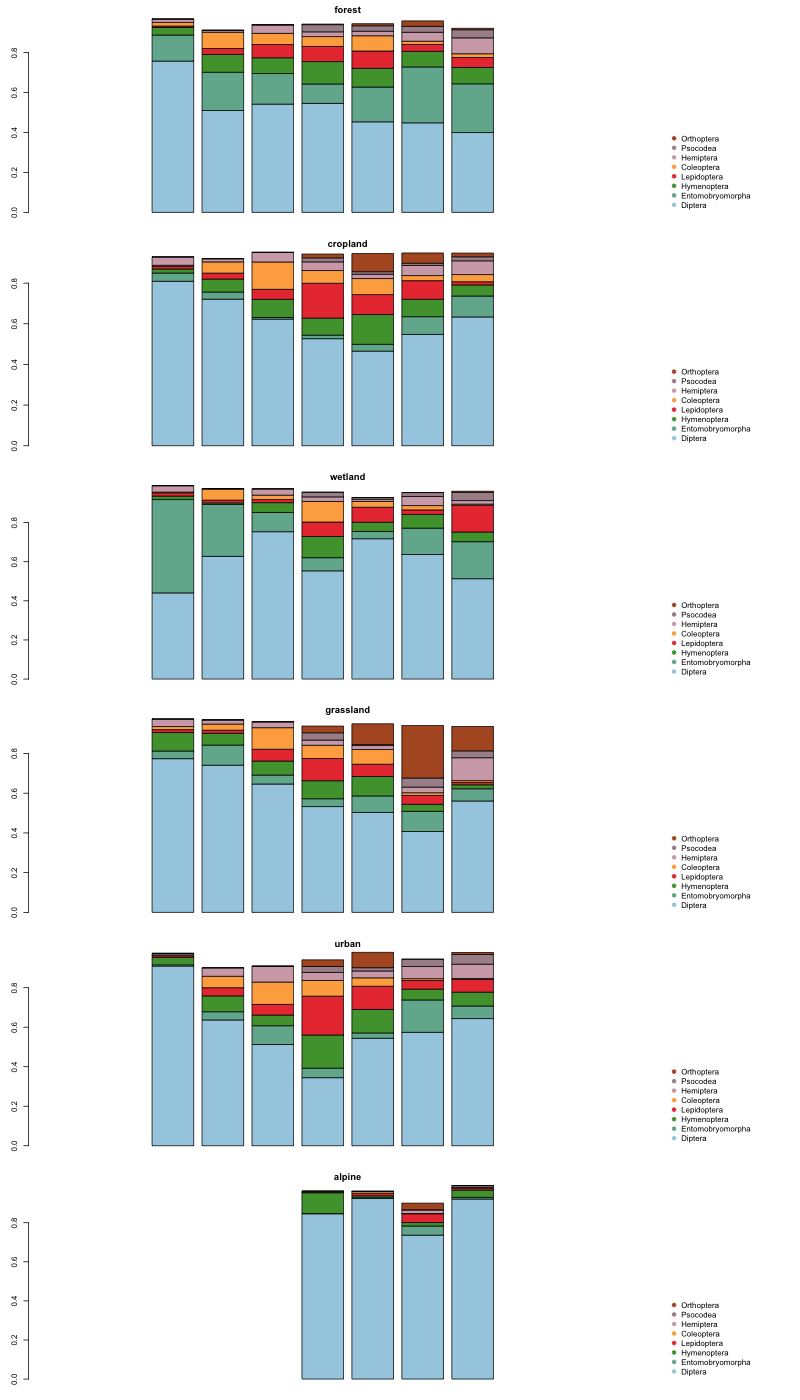
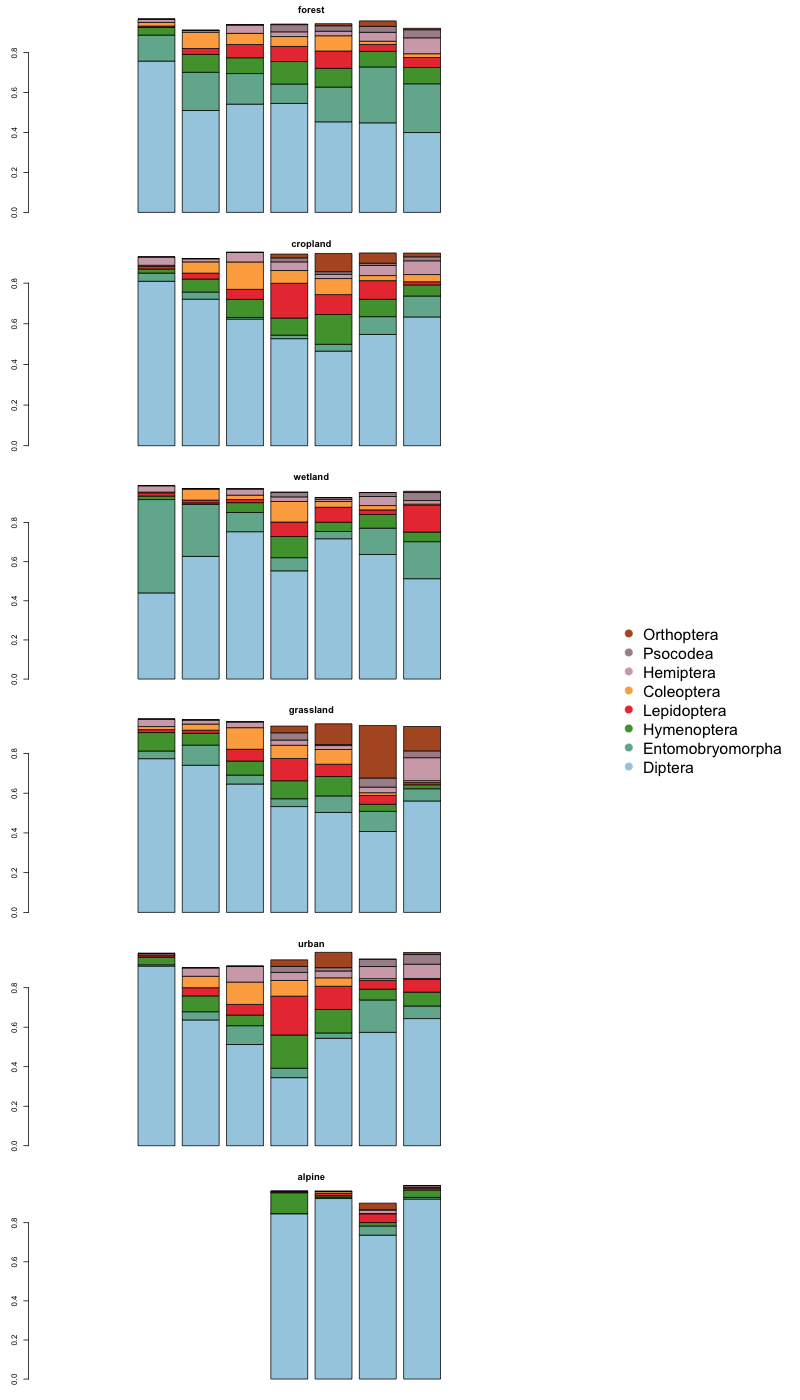
Render site to docs/

diff --git a/docs/tutorial-06-barplots.html b/docs/tutorial-06-barplots.html
@@ -181,62 +181,69 @@ pre > code.sourceCode > span > a:first-child::before { text-decoration: underlin
 <span id="cb1-6"><a href="#cb1-6" aria-hidden="true" tabindex="-1"></a>  ))</span>
 <span id="cb1-7"><a href="#cb1-7" aria-hidden="true" tabindex="-1"></a></span>
 <span id="cb1-8"><a href="#cb1-8" aria-hidden="true" tabindex="-1"></a>  habitats <span class="ot">&lt;-</span> <span class="fu">names</span>(habitat_cols)</span>
-<span id="cb1-9"><a href="#cb1-9" aria-hidden="true" tabindex="-1"></a>  <span class="fu">par</span>(<span class="at">mfrow =</span> <span class="fu">c</span>(<span class="fu">length</span>(habitats), <span class="dv">1</span>), <span class="at">mar =</span> <span class="fu">c</span>(<span class="dv">2</span>, <span class="dv">3</span>, <span class="dv">2</span>, <span class="dv">14</span>), <span class="at">xpd =</span> <span class="cn">TRUE</span>)</span>
+<span id="cb1-9"><a href="#cb1-9" aria-hidden="true" tabindex="-1"></a>  n_hab <span class="ot">&lt;-</span> <span class="fu">length</span>(habitats)</span>
 <span id="cb1-10"><a href="#cb1-10" aria-hidden="true" tabindex="-1"></a></span>
-<span id="cb1-11"><a href="#cb1-11" aria-hidden="true" tabindex="-1"></a>  <span class="co"># Select the most abundant taxa across the samples retained in step 3</span></span>
-<span id="cb1-12"><a href="#cb1-12" aria-hidden="true" tabindex="-1"></a>  ok <span class="ot">&lt;-</span> <span class="fu">sort</span>(</span>
-<span id="cb1-13"><a href="#cb1-13" aria-hidden="true" tabindex="-1"></a>    Matrix<span class="sc">::</span><span class="fu">rowMeans</span>(cladecounts<span class="sc">$</span>norm[[rank]][, ix]),</span>
-<span id="cb1-14"><a href="#cb1-14" aria-hidden="true" tabindex="-1"></a>    <span class="at">index.return =</span> <span class="cn">TRUE</span>,</span>
-<span id="cb1-15"><a href="#cb1-15" aria-hidden="true" tabindex="-1"></a>    <span class="at">decreasing =</span> <span class="cn">TRUE</span></span>
-<span id="cb1-16"><a href="#cb1-16" aria-hidden="true" tabindex="-1"></a>  )<span class="sc">$</span>ix[<span class="dv">1</span><span class="sc">:</span>top_x]</span>
-<span id="cb1-17"><a href="#cb1-17" aria-hidden="true" tabindex="-1"></a></span>
-<span id="cb1-18"><a href="#cb1-18" aria-hidden="true" tabindex="-1"></a>  <span class="cf">if</span> (size_taxa <span class="sc">==</span> <span class="sc">-</span><span class="dv">1</span>) {</span>
-<span id="cb1-19"><a href="#cb1-19" aria-hidden="true" tabindex="-1"></a>    size_taxa <span class="ot">&lt;-</span> <span class="fu">min</span>(<span class="fl">1.5</span>, <span class="dv">8</span> <span class="sc">/</span> <span class="fu">length</span>(ok))</span>
-<span id="cb1-20"><a href="#cb1-20" aria-hidden="true" tabindex="-1"></a>  }</span>
-<span id="cb1-21"><a href="#cb1-21" aria-hidden="true" tabindex="-1"></a></span>
-<span id="cb1-22"><a href="#cb1-22" aria-hidden="true" tabindex="-1"></a>  <span class="cf">for</span> (hab <span class="cf">in</span> habitats) {</span>
-<span id="cb1-23"><a href="#cb1-23" aria-hidden="true" tabindex="-1"></a>    ix_hab <span class="ot">&lt;-</span> <span class="fu">intersect</span>(ix, <span class="fu">which</span>(habitat <span class="sc">==</span> hab))</span>
-<span id="cb1-24"><a href="#cb1-24" aria-hidden="true" tabindex="-1"></a></span>
-<span id="cb1-25"><a href="#cb1-25" aria-hidden="true" tabindex="-1"></a>    monthly_averages_matr <span class="ot">&lt;-</span> <span class="fu">matrix</span>(</span>
-<span id="cb1-26"><a href="#cb1-26" aria-hidden="true" tabindex="-1"></a>      <span class="at">ncol =</span> <span class="dv">12</span>,</span>
-<span id="cb1-27"><a href="#cb1-27" aria-hidden="true" tabindex="-1"></a>      <span class="at">nrow =</span> <span class="fu">nrow</span>(cladecounts<span class="sc">$</span>norm[[rank]])</span>
-<span id="cb1-28"><a href="#cb1-28" aria-hidden="true" tabindex="-1"></a>    )</span>
-<span id="cb1-29"><a href="#cb1-29" aria-hidden="true" tabindex="-1"></a></span>
-<span id="cb1-30"><a href="#cb1-30" aria-hidden="true" tabindex="-1"></a>    <span class="cf">for</span> (j <span class="cf">in</span> <span class="dv">1</span><span class="sc">:</span><span class="dv">12</span>) {</span>
-<span id="cb1-31"><a href="#cb1-31" aria-hidden="true" tabindex="-1"></a>      ix2 <span class="ot">&lt;-</span> <span class="fu">intersect</span>(ix_hab, <span class="fu">which</span>(month <span class="sc">==</span> j))</span>
-<span id="cb1-32"><a href="#cb1-32" aria-hidden="true" tabindex="-1"></a></span>
-<span id="cb1-33"><a href="#cb1-33" aria-hidden="true" tabindex="-1"></a>      <span class="cf">if</span> (<span class="fu">length</span>(ix2) <span class="sc">&gt;</span> <span class="dv">1</span>) {</span>
-<span id="cb1-34"><a href="#cb1-34" aria-hidden="true" tabindex="-1"></a>        monthly_averages_matr[, j] <span class="ot">&lt;-</span></span>
-<span id="cb1-35"><a href="#cb1-35" aria-hidden="true" tabindex="-1"></a>          Matrix<span class="sc">::</span><span class="fu">rowMeans</span>(cladecounts<span class="sc">$</span>norm[[rank]][, ix2])</span>
-<span id="cb1-36"><a href="#cb1-36" aria-hidden="true" tabindex="-1"></a>      }</span>
-<span id="cb1-37"><a href="#cb1-37" aria-hidden="true" tabindex="-1"></a></span>
-<span id="cb1-38"><a href="#cb1-38" aria-hidden="true" tabindex="-1"></a>      <span class="cf">if</span> (<span class="fu">length</span>(ix2) <span class="sc">==</span> <span class="dv">1</span>) {</span>
-<span id="cb1-39"><a href="#cb1-39" aria-hidden="true" tabindex="-1"></a>        monthly_averages_matr[, j] <span class="ot">&lt;-</span></span>
-<span id="cb1-40"><a href="#cb1-40" aria-hidden="true" tabindex="-1"></a>          cladecounts<span class="sc">$</span>norm[[rank]][, ix2]</span>
-<span id="cb1-41"><a href="#cb1-41" aria-hidden="true" tabindex="-1"></a>      }</span>
-<span id="cb1-42"><a href="#cb1-42" aria-hidden="true" tabindex="-1"></a></span>
-<span id="cb1-43"><a href="#cb1-43" aria-hidden="true" tabindex="-1"></a>      <span class="cf">if</span> (<span class="fu">length</span>(ix2) <span class="sc">==</span> <span class="dv">0</span>) {</span>
-<span id="cb1-44"><a href="#cb1-44" aria-hidden="true" tabindex="-1"></a>        monthly_averages_matr[, j] <span class="ot">&lt;-</span> <span class="cn">NA</span></span>
-<span id="cb1-45"><a href="#cb1-45" aria-hidden="true" tabindex="-1"></a>      }</span>
-<span id="cb1-46"><a href="#cb1-46" aria-hidden="true" tabindex="-1"></a>    }</span>
-<span id="cb1-47"><a href="#cb1-47" aria-hidden="true" tabindex="-1"></a></span>
-<span id="cb1-48"><a href="#cb1-48" aria-hidden="true" tabindex="-1"></a>    <span class="fu">barplot</span>(</span>
-<span id="cb1-49"><a href="#cb1-49" aria-hidden="true" tabindex="-1"></a>      monthly_averages_matr[ok, ],</span>
-<span id="cb1-50"><a href="#cb1-50" aria-hidden="true" tabindex="-1"></a>      <span class="at">col =</span> <span class="fu">mycols</span>(<span class="fu">length</span>(ok)),</span>
-<span id="cb1-51"><a href="#cb1-51" aria-hidden="true" tabindex="-1"></a>      <span class="at">main =</span> hab</span>
-<span id="cb1-52"><a href="#cb1-52" aria-hidden="true" tabindex="-1"></a>    )</span>
+<span id="cb1-11"><a href="#cb1-11" aria-hidden="true" tabindex="-1"></a>  <span class="co"># ok is the same set of taxa in every panel, so we use one shared legend</span></span>
+<span id="cb1-12"><a href="#cb1-12" aria-hidden="true" tabindex="-1"></a>  <span class="co"># in its own column, spanning the full figure height for readability</span></span>
+<span id="cb1-13"><a href="#cb1-13" aria-hidden="true" tabindex="-1"></a>  <span class="fu">layout</span>(<span class="fu">matrix</span>(<span class="fu">c</span>(<span class="fu">seq_len</span>(n_hab), <span class="fu">rep</span>(n_hab <span class="sc">+</span> <span class="dv">1</span>, n_hab)), <span class="at">nrow =</span> n_hab),</span>
+<span id="cb1-14"><a href="#cb1-14" aria-hidden="true" tabindex="-1"></a>         <span class="at">widths =</span> <span class="fu">c</span>(<span class="dv">4</span>, <span class="fl">1.3</span>))</span>
+<span id="cb1-15"><a href="#cb1-15" aria-hidden="true" tabindex="-1"></a>  <span class="fu">par</span>(<span class="at">mar =</span> <span class="fu">c</span>(<span class="dv">2</span>, <span class="dv">3</span>, <span class="dv">2</span>, <span class="dv">1</span>))</span>
+<span id="cb1-16"><a href="#cb1-16" aria-hidden="true" tabindex="-1"></a></span>
+<span id="cb1-17"><a href="#cb1-17" aria-hidden="true" tabindex="-1"></a>  <span class="co"># Select the most abundant taxa across the samples retained in step 3</span></span>
+<span id="cb1-18"><a href="#cb1-18" aria-hidden="true" tabindex="-1"></a>  ok <span class="ot">&lt;-</span> <span class="fu">sort</span>(</span>
+<span id="cb1-19"><a href="#cb1-19" aria-hidden="true" tabindex="-1"></a>    Matrix<span class="sc">::</span><span class="fu">rowMeans</span>(cladecounts<span class="sc">$</span>norm[[rank]][, ix]),</span>
+<span id="cb1-20"><a href="#cb1-20" aria-hidden="true" tabindex="-1"></a>    <span class="at">index.return =</span> <span class="cn">TRUE</span>,</span>
+<span id="cb1-21"><a href="#cb1-21" aria-hidden="true" tabindex="-1"></a>    <span class="at">decreasing =</span> <span class="cn">TRUE</span></span>
+<span id="cb1-22"><a href="#cb1-22" aria-hidden="true" tabindex="-1"></a>  )<span class="sc">$</span>ix[<span class="dv">1</span><span class="sc">:</span>top_x]</span>
+<span id="cb1-23"><a href="#cb1-23" aria-hidden="true" tabindex="-1"></a></span>
+<span id="cb1-24"><a href="#cb1-24" aria-hidden="true" tabindex="-1"></a>  <span class="cf">if</span> (size_taxa <span class="sc">==</span> <span class="sc">-</span><span class="dv">1</span>) {</span>
+<span id="cb1-25"><a href="#cb1-25" aria-hidden="true" tabindex="-1"></a>    size_taxa <span class="ot">&lt;-</span> <span class="fl">1.3</span></span>
+<span id="cb1-26"><a href="#cb1-26" aria-hidden="true" tabindex="-1"></a>  }</span>
+<span id="cb1-27"><a href="#cb1-27" aria-hidden="true" tabindex="-1"></a></span>
+<span id="cb1-28"><a href="#cb1-28" aria-hidden="true" tabindex="-1"></a>  <span class="cf">for</span> (hab <span class="cf">in</span> habitats) {</span>
+<span id="cb1-29"><a href="#cb1-29" aria-hidden="true" tabindex="-1"></a>    ix_hab <span class="ot">&lt;-</span> <span class="fu">intersect</span>(ix, <span class="fu">which</span>(habitat <span class="sc">==</span> hab))</span>
+<span id="cb1-30"><a href="#cb1-30" aria-hidden="true" tabindex="-1"></a></span>
+<span id="cb1-31"><a href="#cb1-31" aria-hidden="true" tabindex="-1"></a>    monthly_averages_matr <span class="ot">&lt;-</span> <span class="fu">matrix</span>(</span>
+<span id="cb1-32"><a href="#cb1-32" aria-hidden="true" tabindex="-1"></a>      <span class="at">ncol =</span> <span class="dv">12</span>,</span>
+<span id="cb1-33"><a href="#cb1-33" aria-hidden="true" tabindex="-1"></a>      <span class="at">nrow =</span> <span class="fu">nrow</span>(cladecounts<span class="sc">$</span>norm[[rank]])</span>
+<span id="cb1-34"><a href="#cb1-34" aria-hidden="true" tabindex="-1"></a>    )</span>
+<span id="cb1-35"><a href="#cb1-35" aria-hidden="true" tabindex="-1"></a></span>
+<span id="cb1-36"><a href="#cb1-36" aria-hidden="true" tabindex="-1"></a>    <span class="cf">for</span> (j <span class="cf">in</span> <span class="dv">1</span><span class="sc">:</span><span class="dv">12</span>) {</span>
+<span id="cb1-37"><a href="#cb1-37" aria-hidden="true" tabindex="-1"></a>      ix2 <span class="ot">&lt;-</span> <span class="fu">intersect</span>(ix_hab, <span class="fu">which</span>(month <span class="sc">==</span> j))</span>
+<span id="cb1-38"><a href="#cb1-38" aria-hidden="true" tabindex="-1"></a></span>
+<span id="cb1-39"><a href="#cb1-39" aria-hidden="true" tabindex="-1"></a>      <span class="cf">if</span> (<span class="fu">length</span>(ix2) <span class="sc">&gt;</span> <span class="dv">1</span>) {</span>
+<span id="cb1-40"><a href="#cb1-40" aria-hidden="true" tabindex="-1"></a>        monthly_averages_matr[, j] <span class="ot">&lt;-</span></span>
+<span id="cb1-41"><a href="#cb1-41" aria-hidden="true" tabindex="-1"></a>          Matrix<span class="sc">::</span><span class="fu">rowMeans</span>(cladecounts<span class="sc">$</span>norm[[rank]][, ix2])</span>
+<span id="cb1-42"><a href="#cb1-42" aria-hidden="true" tabindex="-1"></a>      }</span>
+<span id="cb1-43"><a href="#cb1-43" aria-hidden="true" tabindex="-1"></a></span>
+<span id="cb1-44"><a href="#cb1-44" aria-hidden="true" tabindex="-1"></a>      <span class="cf">if</span> (<span class="fu">length</span>(ix2) <span class="sc">==</span> <span class="dv">1</span>) {</span>
+<span id="cb1-45"><a href="#cb1-45" aria-hidden="true" tabindex="-1"></a>        monthly_averages_matr[, j] <span class="ot">&lt;-</span></span>
+<span id="cb1-46"><a href="#cb1-46" aria-hidden="true" tabindex="-1"></a>          cladecounts<span class="sc">$</span>norm[[rank]][, ix2]</span>
+<span id="cb1-47"><a href="#cb1-47" aria-hidden="true" tabindex="-1"></a>      }</span>
+<span id="cb1-48"><a href="#cb1-48" aria-hidden="true" tabindex="-1"></a></span>
+<span id="cb1-49"><a href="#cb1-49" aria-hidden="true" tabindex="-1"></a>      <span class="cf">if</span> (<span class="fu">length</span>(ix2) <span class="sc">==</span> <span class="dv">0</span>) {</span>
+<span id="cb1-50"><a href="#cb1-50" aria-hidden="true" tabindex="-1"></a>        monthly_averages_matr[, j] <span class="ot">&lt;-</span> <span class="cn">NA</span></span>
+<span id="cb1-51"><a href="#cb1-51" aria-hidden="true" tabindex="-1"></a>      }</span>
+<span id="cb1-52"><a href="#cb1-52" aria-hidden="true" tabindex="-1"></a>    }</span>
 <span id="cb1-53"><a href="#cb1-53" aria-hidden="true" tabindex="-1"></a></span>
-<span id="cb1-54"><a href="#cb1-54" aria-hidden="true" tabindex="-1"></a>    <span class="fu">legend</span>(</span>
-<span id="cb1-55"><a href="#cb1-55" aria-hidden="true" tabindex="-1"></a>      <span class="st">"bottomleft"</span>,</span>
-<span id="cb1-56"><a href="#cb1-56" aria-hidden="true" tabindex="-1"></a>      <span class="at">bty =</span> <span class="st">"n"</span>,</span>
-<span id="cb1-57"><a href="#cb1-57" aria-hidden="true" tabindex="-1"></a>      <span class="at">pch =</span> <span class="dv">19</span>,</span>
-<span id="cb1-58"><a href="#cb1-58" aria-hidden="true" tabindex="-1"></a>      <span class="at">col =</span> <span class="fu">mycols</span>(<span class="fu">length</span>(ok))[<span class="fu">length</span>(ok)<span class="sc">:</span><span class="dv">1</span>],</span>
-<span id="cb1-59"><a href="#cb1-59" aria-hidden="true" tabindex="-1"></a>      <span class="at">cex =</span> size_taxa,</span>
-<span id="cb1-60"><a href="#cb1-60" aria-hidden="true" tabindex="-1"></a>      <span class="at">inset =</span> <span class="fu">c</span>(<span class="dv">1</span>, <span class="dv">0</span>),</span>
-<span id="cb1-61"><a href="#cb1-61" aria-hidden="true" tabindex="-1"></a>      <span class="at">legend =</span> <span class="fu">rownames</span>(cladecounts<span class="sc">$</span>norm[[rank]])[<span class="fu">rev</span>(ok)]</span>
-<span id="cb1-62"><a href="#cb1-62" aria-hidden="true" tabindex="-1"></a>    )</span>
-<span id="cb1-63"><a href="#cb1-63" aria-hidden="true" tabindex="-1"></a>  }</span>
-<span id="cb1-64"><a href="#cb1-64" aria-hidden="true" tabindex="-1"></a>}</span></code></pre></div><button title="Copy to Clipboard" class="code-copy-button"><i class="bi"></i></button></div>
+<span id="cb1-54"><a href="#cb1-54" aria-hidden="true" tabindex="-1"></a>    <span class="fu">barplot</span>(</span>
+<span id="cb1-55"><a href="#cb1-55" aria-hidden="true" tabindex="-1"></a>      monthly_averages_matr[ok, ],</span>
+<span id="cb1-56"><a href="#cb1-56" aria-hidden="true" tabindex="-1"></a>      <span class="at">col =</span> <span class="fu">mycols</span>(<span class="fu">length</span>(ok)),</span>
+<span id="cb1-57"><a href="#cb1-57" aria-hidden="true" tabindex="-1"></a>      <span class="at">main =</span> hab</span>
+<span id="cb1-58"><a href="#cb1-58" aria-hidden="true" tabindex="-1"></a>    )</span>
+<span id="cb1-59"><a href="#cb1-59" aria-hidden="true" tabindex="-1"></a>  }</span>
+<span id="cb1-60"><a href="#cb1-60" aria-hidden="true" tabindex="-1"></a></span>
+<span id="cb1-61"><a href="#cb1-61" aria-hidden="true" tabindex="-1"></a>  <span class="fu">par</span>(<span class="at">mar =</span> <span class="fu">c</span>(<span class="dv">0</span>, <span class="dv">0</span>, <span class="dv">0</span>, <span class="dv">0</span>))</span>
+<span id="cb1-62"><a href="#cb1-62" aria-hidden="true" tabindex="-1"></a>  <span class="fu">plot.new</span>()</span>
+<span id="cb1-63"><a href="#cb1-63" aria-hidden="true" tabindex="-1"></a>  <span class="fu">legend</span>(</span>
+<span id="cb1-64"><a href="#cb1-64" aria-hidden="true" tabindex="-1"></a>    <span class="st">"center"</span>,</span>
+<span id="cb1-65"><a href="#cb1-65" aria-hidden="true" tabindex="-1"></a>    <span class="at">bty =</span> <span class="st">"n"</span>,</span>
+<span id="cb1-66"><a href="#cb1-66" aria-hidden="true" tabindex="-1"></a>    <span class="at">pch =</span> <span class="dv">19</span>,</span>
+<span id="cb1-67"><a href="#cb1-67" aria-hidden="true" tabindex="-1"></a>    <span class="at">col =</span> <span class="fu">mycols</span>(<span class="fu">length</span>(ok))[<span class="fu">length</span>(ok)<span class="sc">:</span><span class="dv">1</span>],</span>
+<span id="cb1-68"><a href="#cb1-68" aria-hidden="true" tabindex="-1"></a>    <span class="at">cex =</span> size_taxa,</span>
+<span id="cb1-69"><a href="#cb1-69" aria-hidden="true" tabindex="-1"></a>    <span class="at">legend =</span> <span class="fu">rownames</span>(cladecounts<span class="sc">$</span>norm[[rank]])[<span class="fu">rev</span>(ok)]</span>
+<span id="cb1-70"><a href="#cb1-70" aria-hidden="true" tabindex="-1"></a>  )</span>
+<span id="cb1-71"><a href="#cb1-71" aria-hidden="true" tabindex="-1"></a>}</span></code></pre></div><button title="Copy to Clipboard" class="code-copy-button"><i class="bi"></i></button></div>
 <p>The same paired sample set selected in <a href="./tutorial-03-map.html">step 3</a>, stored in <code>ix</code>, is used both to select the most abundant taxa and to calculate the habitat-by-month averages.</p>
 </section>
 <section id="choose-a-taxonomic-rank" class="level3">
